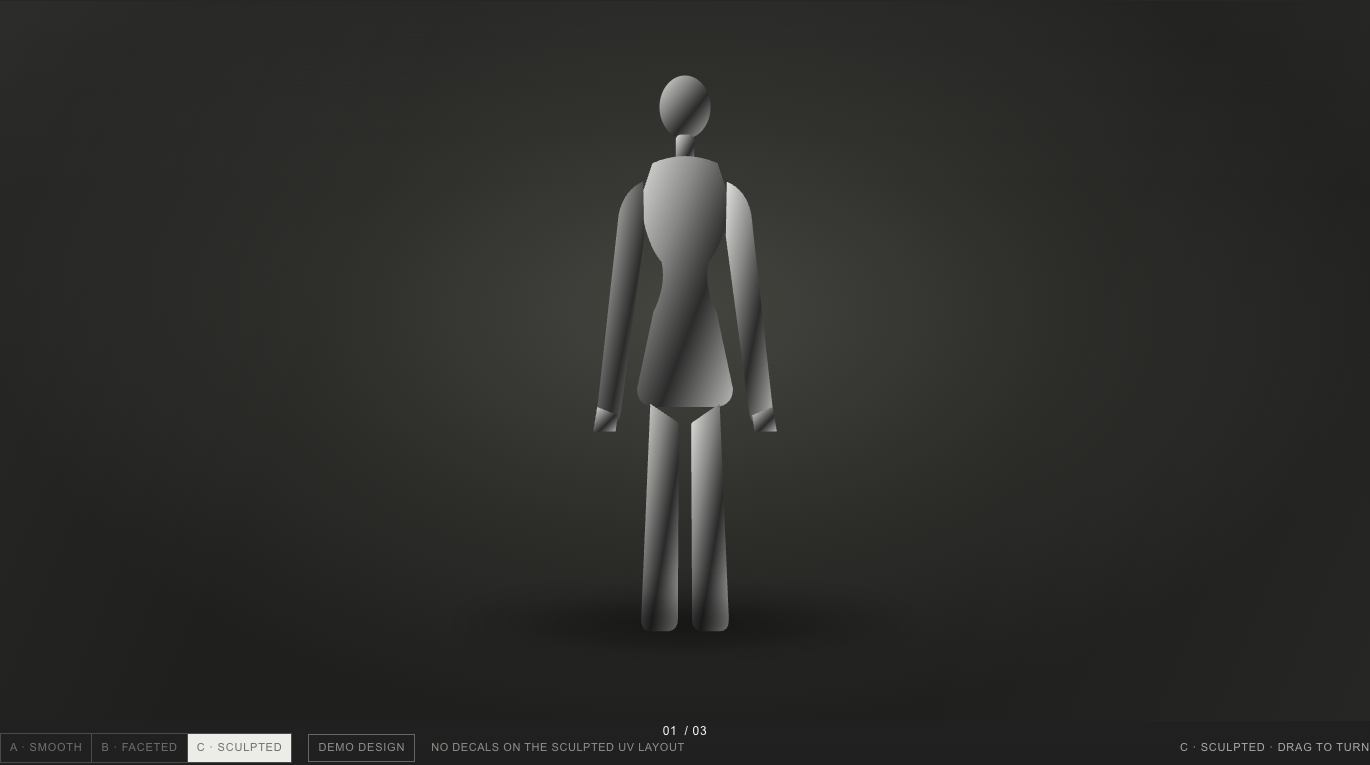
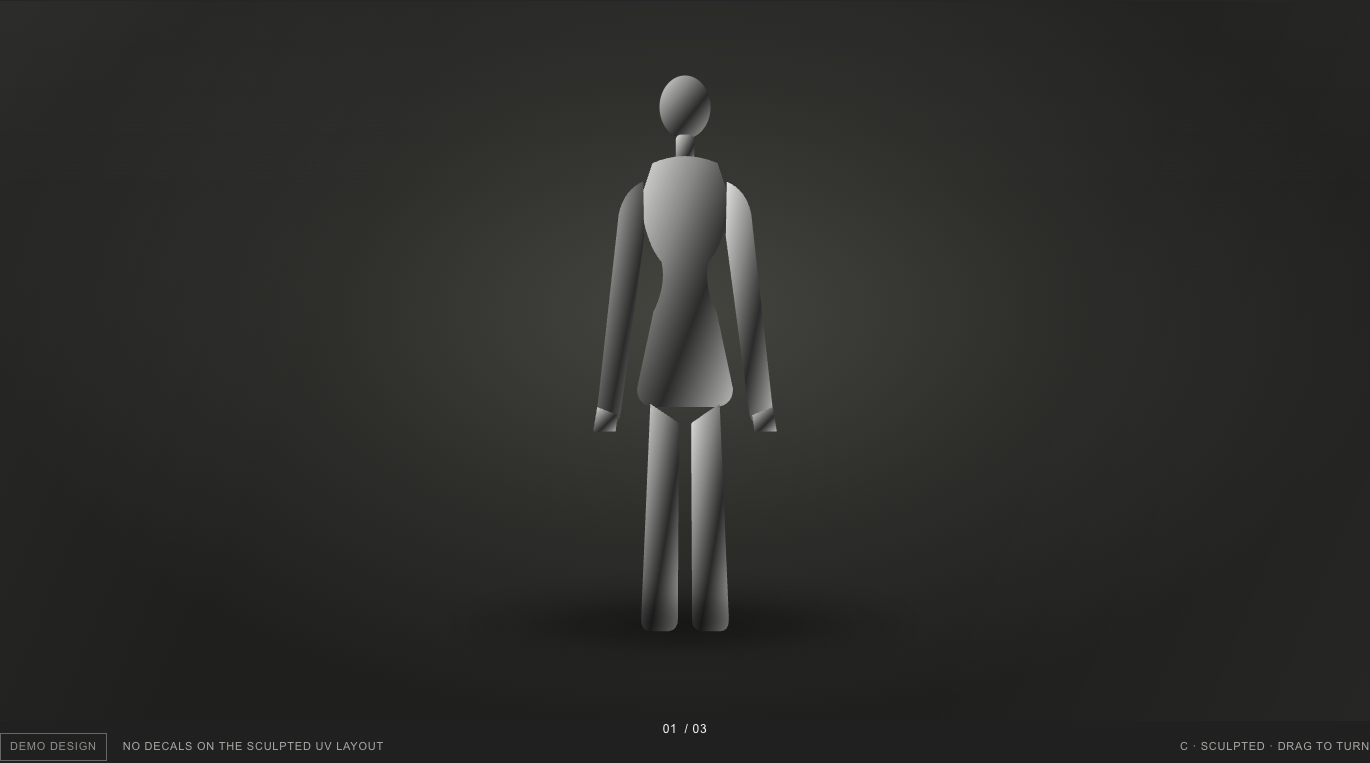
V3.2-M2: Evidence und Doku fuer C-only + Einfahrt
- REPORT: Abschnitt M2 mit Frontpage-Vergleichstabelle, Dev-Zugang zu A/B,
  initialYaw, License-Note-Verschiebung und Beobachtungen
- Screenshots: variant-c @1440/390/320, entrance-mid-1440, hidden-variant-a/b
  (Vite-Dev), Poster-Fallback; alte A/B-Screenshots der Drei-Varianten-UI raus
- NEXT_SESSION/PROJECT_PROGRESS: M2-Status und naechster Checkpoint

Changed region(s): [[0.0, 0.9345, 0.4905, 1.0], [0.8584, 0.9646, 1.0, 0.9948]]

diff --git a/docs/validation/MANNEQUIN-C/REPORT.md b/docs/validation/MANNEQUIN-C/REPORT.md
@@ -4,10 +4,11 @@ Branch `v3.2-mannequin-female`, Basis `9dd66ce`. Kein Merge, kein Deploy.
 
 ## Ergebnis in einem Satz
 
-Die 3D-Model-Subsection auf `/work/tattoos` zeigt jetzt drei umschaltbare
-Varianten (A smooth, B faceted, C sculpted als Default), dreht langsam, laesst
-sich ziehen und zurueckschleudern, laedt jedes GLB genau einmal und bleibt auf
-kalten Routen Three.js-frei.
+Die 3D-Model-Subsection auf `/work/tattoos` zeigt **nur noch Variante C**
+(sculpted), faehrt beim Scrollen mit derselben Kurve ein wie das Frontpage-
+Element "01 / creative", dreht langsam, laesst sich ziehen und
+zurueckschleudern, laedt genau ein GLB und bleibt auf kalten Routen
+Three.js-frei. A und B sind verborgen, aber im Code erhalten.
 
 ## Quelle und Ableitung (Poly-Count-Trace)
 
@@ -139,3 +140,88 @@ KTX_TOOLS=/pfad/zu/ktx/bin node scripts/build-mannequin-c.mjs
 #           MANNEQUIN_TEXTURE=/pfad/skincolor.png
 node scripts/verify-mannequin-assets.mjs
 ```
+
+## V3.2-M2 — Finalisierung
+
+### Nur C sichtbar
+
+- Der Varianten-Umschalter ist aus Markup, CSS und Renderer entfernt
+  (`[data-mannequin-variant-option]` existiert nicht mehr).
+- **A/B: verborgen, NICHT loeschen (V3.2).** Die Registry in
+  `src/mannequin-preview-config.js` bleibt vollstaendig, inklusive Modelle,
+  Material-Erwartung und Demo-Design-Flag.
+- Intern erreichbar nur im Dev-Server: `/work/tattoos?variant=a|b`
+  (`mannequinDevVariant()` prueft `import.meta.env.DEV`). Im Production-Build
+  ist der Zweig tot; ein Test bestaetigt, dass `?variant=b` dort wirkungslos
+  bleibt und keine A/B-Datei geladen wird.
+- Screenshots der versteckten Varianten: `hidden-variant-a-1440.png`,
+  `hidden-variant-b-1440.png` (Vite-Dev, B mit Demo-Decal), Messwerte in
+  `hidden-variants.json`.
+- Demo-Design bleibt fuer C deaktiviert (`aria-disabled="true"` + sichtbarer
+  Hinweis "no decals on the sculpted uv layout").
+- `initialYaw` ist jetzt eine benannte Konstante pro Variante. C: `0` rad, weil
+  C mit `+Z` nach vorn modelliert ist und die Kamera auf `+Z` steht — also
+  frontale Startansicht. A/B-Assets und ihre Werte bleiben unangetastet.
+
+### Scroll-Einfahrt wie "01 / creative"
+
+Das Frontpage-Element wird in `src/scroll-choreography.js` bewegt:
+`aboutSectionProgress(position, top, vh)` (approach .68 / finish .10) und
+`sampleAboutItem(progress, 'link', viewportWidth)` (linkStart .24 / linkEnd .98,
+Distanz `min(28px, 4.5vw)`, Easing `smoothProgress`). Der Titel selbst bleibt
+dort statisch — die Einfahrt laeuft ueber die Rubrik-Links
+(`--kinetic-x` / `--kinetic-opacity`).
+
+`src/section-entrance.js` importiert genau diese beiden Sampler (kein
+Copy-Paste) und setzt `--entrance-x` / `--entrance-opacity` auf `#model-3d`.
+Testvergleich gegen die Frontpage bei identischem Scroll-Offset:
+
+| Section-Top im Viewport | Frontpage `--kinetic-x` | Modell `--entrance-x` | Opacity |
+| --- | --- | --- | --- |
+| 620 px | 28.000 px | 28.000 px | 0.000 |
+| 500 px | 27.792 px | 27.790 px | 0.008 |
+| 380 px | 20.310 px | 20.310 px | 0.412 |
+| 260 px | 6.401 px | 6.390 px | 0.861 |
+| 160 px | 0.337 px | 0.330 px | 0.994 |
+
+**Abweichung (begruendet):** Das Original ist scroll-gebunden und laeuft beim
+Zurueckscrollen rueckwaerts. Die Aufgabe erlaubt fuer diesen Fall
+"Originalverhalten uebernehmen", deshalb gibt es keinen einmaligen Time-out;
+der IntersectionObserver schaltet nur den Frame-Loop scharf (Startpose wird
+synchron gesetzt). `prefers-reduced-motion`: Endpose sofort, kein Listener,
+keine Animation. Ohne JavaScript bleibt die Section sichtbar (CSS-Default 1).
+
+### LICENSE-NOTE
+
+`docs/validation/MANNEQUIN-C/LICENSE-NOTE.md` ist **wortgleich** nach
+`outputs/mannequin-remodeling/LICENSE-NOTE-C.md` verschoben (ausserhalb des
+Repos) und im Repo entfernt. Inhalt: Herkunftskette des Assets (Sketchfab-
+Basismesh), der Redistributions-Befund und die Tooling-Lizenzen (Blender GPL,
+glTF-Transform MIT, KTX-Software Apache-2.0, Draco/Basis Apache-2.0). Nichts
+davon ist verloren: die Apache-2.0-Nachweise der tatsaechlich ausgelieferten
+Decoder stehen unveraendert in `public/draco/README.md` und
+`public/basis/README.md`, die Herkunft liegt in der lokalen Notiz und in der
+Git-Historie.
+
+Bundle-Nachweis: Die Preview-Suite durchsucht `dist/` rekursiv nach
+`LICENSE-NOTE` (0 Treffer) und bestaetigt, dass `docs/` nicht gebundelt wird.
+
+### Tests (V3.2-M2)
+
+| Suite | Ergebnis |
+| --- | --- |
+| `npm test` | 386/386 PASS |
+| `npm run test:mannequin-preview` | 3 Viewports, nur C, Einfahrt == Frontpage, Reduced Motion, No-WebGL, Leak, Bundle ohne LICENSE-NOTE |
+| `npm run test:mannequin-variants-dev` | A/B via `?variant=`, kein Umschalter, C bleibt Default (Vite-Dev) |
+| `npm run test:seo` | 18 Routen + 404, keine Three.js-Requests auf direkten Routen |
+| `node tests/v23-static-titles-browser.mjs` | 6/6 PASS (statische Titel unveraendert) |
+| `npm run build` | 18 Routen + 404 |
+
+### Beobachtungen (out of scope, unveraendert)
+
+- `npm run test:mobile` scheitert an `tests/mobile-interactions-browser.mjs:193`
+  — auf `9dd66ce` reproduziert.
+- `.chapter-counter` (`position: fixed`) ueberlagert je nach Scrollposition den
+  unteren Frame-Rand.
+- A/B sind `-Z`-vorn, C ist `+Z`-vorn. Da nur C sichtbar ist, bleibt das ohne
+  Wirkung; A/B-Assets wurden nicht angefasst.

diff --git a/NEXT_SESSION.md b/NEXT_SESSION.md
@@ -1,25 +1,31 @@
-# V3.2-M1 checkpoint — Mannequin A/B/C
+# V3.2-M2 checkpoint — "3d model" finalisiert
 
 Updated 2026-11-04. Branch `v3.2-mannequin-female`, Basis `9dd66ce`.
 Committet, **nicht gepusht**, kein Merge, kein Deploy.
 
 ## Status
 
-- [x] Variante C als Default, A/B unveraendert umschaltbar, ein Renderer.
-- [x] Lazy pro Route und pro Variante; 0 WebGL/0 GLB auf kalten Routen.
-- [x] Draco + KTX2 (Decoder lokal unter `public/draco`, `public/basis`).
-- [x] Rotation, Hover, Drag-Traegheit, Swipe, Flick-Ersatz, Reduced Motion,
-      No-WebGL-Poster.
+- [x] Nur C ist sichtbar; der Varianten-Umschalter ist aus der UI entfernt.
+- [x] A/B: verborgen, NICHT geloescht — Registry bleibt, erreichbar nur im
+      Dev-Server ueber `?variant=a|b` (kein Link, keine Navigation).
+- [x] `initialYaw` pro Variante als Konstante (C = 0 rad, C ist +Z-vorn).
 - [x] Demo-Design fuer C deaktiviert (`aria-disabled` + sichtbarer Hinweis).
-- [x] Pipeline + Hashes + UV-Nachweise in `docs/validation/MANNEQUIN-C/`.
-- [x] `npm test` 385/385, SEO 18 Routen, Preview-Suite 3 Viewports × 3
-      Varianten, Build 18 Routen + 404.
+- [x] Section-Einfahrt ueber `src/section-entrance.js`: dieselben Sampler wie
+      "01 / creative" (Schwellen .68/.10, Easing `smoothProgress`, Distanz
+      min(28px, 4.5vw)); Reduced Motion instant.
+- [x] `LICENSE-NOTE.md` wortgleich nach
+      `outputs/mannequin-remodeling/LICENSE-NOTE-C.md` verschoben; Build
+      enthaelt den String nicht mehr (Test).
+- [x] Rotation/Hover/Drag/Swipe/Flick, Lazy-Load, dispose und No-WebGL-Poster
+      unveraendert.
+- [x] `npm test` 386/386, `test:mannequin-preview`, `test:mannequin-variants-dev`,
+      SEO 18 Routen + 404, statische Titel 6/6, Build 18 Routen + 404.
 
 ## Naechster Schritt (bewusst nicht ausgefuehrt)
 
-1. **Lizenz klaeren** (`docs/validation/MANNEQUIN-C/LICENSE-NOTE.md`): Derivat
-   des Sketchfab-Basismeshs. Erst nach Freigabe pushen/mergen.
-2. Danach V3.2-M1: geteilter Renderer-Chunk mit dem Hero, gemeinsame
+1. **Lizenz klaeren**: `outputs/mannequin-remodeling/LICENSE-NOTE-C.md`
+   (ausserhalb des Repos). Erst nach Freigabe pushen/mergen.
+2. V3.2-M1: geteilter Renderer-Chunk mit dem Hero, gemeinsame
    Rotationskonstanten, Decal-Placement fuer C.
 3. Hero-"Abschiessen" als echtes Modul, sobald die Animation existiert
    (`TODO(V3.2-M1)` in `src/mannequin-preview-config.js`).
@@ -29,6 +35,7 @@ Committet, **nicht gepusht**, kein Merge, kein Deploy.
 - `npm run test:mobile` scheitert an `tests/mobile-interactions-browser.mjs:193`
   auch auf `9dd66ce` (eigener Worktree geprueft).
 - `.chapter-counter` ueberlagert je nach Scrollposition den unteren Frame-Rand.
+- A/B sind `-Z`-vorn, C ist `+Z`-vorn; ohne sichtbare A/B folgenlos.
 
 # V3.1.2 final review state
 

diff --git a/PROJECT_PROGRESS.md b/PROJECT_PROGRESS.md
@@ -1,3 +1,17 @@
+# V3.2-M2 — "3d model" finalisiert — 2026-11-04
+
+- Nur C ist sichtbar; A/B bleiben in der Registry (verborgen, Dev-only via
+  `?variant=a|b`).
+- Section-Einfahrt teilt die Sampler des Frontpage-Elements "01 / creative"
+  (`src/section-entrance.js`), Reduced Motion springt sofort.
+- `LICENSE-NOTE.md` liegt jetzt ausserhalb des Repos
+  (`outputs/mannequin-remodeling/LICENSE-NOTE-C.md`); Build-Assert auf den
+  String ist Teil der Preview-Suite.
+- Tests: `npm test` 386/386, Preview-Suite (nur C, Einfahrt, Reduced Motion,
+  No-WebGL, Bundle), Dev-Varianten-Suite, SEO 18 Routen + 404, statische Titel
+  6/6, Build 18 Routen + 404.
+- Derivat unveraendert: 49.838 Tris, 316.604 Bytes, SHA-256 `d8306c2b…68ccb`.
+
 # V3.2 — Mannequin-Integration A/B/C — 2026-11-04
 
 Branch `v3.2-mannequin-female`. Die 3D-Model-Subsection (`#model-3d`,
